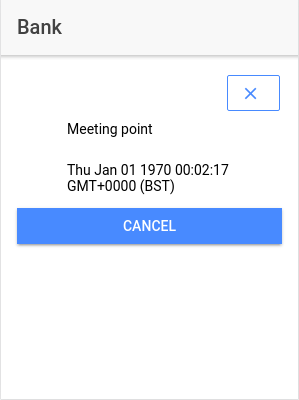
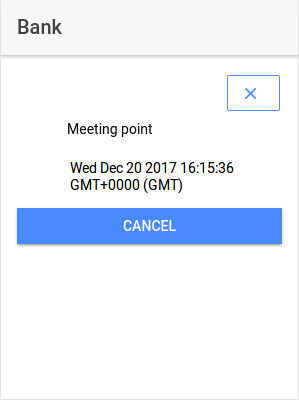
Fixed bug with timestamps
also updated post on website to correct erroneous screenshot

Changed region(s): [[0.2107, 0.39, 0.7826, 0.48]]

diff --git a/src/pages/viewpinmodal/viewpinmodal.ts b/src/pages/viewpinmodal/viewpinmodal.ts
@@ -17,7 +17,7 @@ import { Pin } from '../../Pin';
 export class ViewpinmodalPage {
   name: string;
   details: string;
-  age: Date;
+  timestamp: Date;
 
   constructor(public navCtrl: NavController, public navParams: NavParams,
     public events: Events) {
@@ -28,22 +28,21 @@ export class ViewpinmodalPage {
       this.pin = new Pin(null, null);
       this.pin.name = "error";
       this.pin.details = "error";
-      this.pin.age = new Date();
+      this.pin.timestamp = new Date();
     }
     //otherwise calculate the age
-    else if(this.pin.age !== undefined){
-      this.pin.age = new Date(new Date().valueOf() - this.pin.age.valueOf());
+    else if(this.pin.timestamp !== undefined){
+      this.pin.timestamp = new Date(new Date().valueOf() - this.pin.timestamp.valueOf());
     }*/
 
     this.name = navParams.get('name');
     this.details = navParams.get('details');
-    this.age = navParams.get('age');
+    this.timestamp = navParams.get('age');
 
     //if no pin parameter received flag error in text
     if(this.name === undefined) this.name = "error";
     if(this.details === undefined) this.details = "error";
-    if(this.age === undefined) this.age = new Date();
-    else this.age = new Date(new Date().valueOf() - this.age.valueOf());
+    if(this.timestamp === undefined) this.timestamp = new Date();
   }
 
   ionViewDidLoad() {

diff --git a/docs/blog.html b/docs/blog.html
@@ -74,7 +74,7 @@
             <article>
               <h2><a href="singlepost.html">Hello World!</a></h2>
               <div class="date">
-                Calum Mackervoy -- December 17, 2017 00:05
+                Calum Mackervoy -- December 20, 2017 17:00
               </div>
               <hr/>
               <img src="../resources/posts/16122017/2.png" alt="screenshot of the main interface of the app" class="img-fluid screenshot">
@@ -107,7 +107,7 @@
                 <h4>All Posts</h4>
               </div>
               <ul class="list-group">
-                <li class="list-group-item"><a href="singlepost.html">1. Hello World! 17.12.2017</a></li>
+                <li class="list-group-item"><a href="singlepost.html">1. Hello World! 20.12.2017</a></li>
               </ul>
             </div>
           </div>

diff --git a/src/pages/addpinmodal/addpinmodal.html b/src/pages/addpinmodal/addpinmodal.html
@@ -19,7 +19,6 @@
       <ion-row>
         <ion-col>
           <ion-list inset>
-            <p> {{ manualPos }} </p>
             <div><!--class = "ng-hide" ng-show="manualPos">-->
               <ion-item>
                 <ion-input type="text" placeholder="Latitude" name="latitude" [(ngModel)]="pin.latitude" required></ion-input>

diff --git a/src/pages/viewpinmodal/viewpinmodal.html b/src/pages/viewpinmodal/viewpinmodal.html
@@ -24,7 +24,7 @@
       {{ details }}
     </p>
     <p>
-      {{ age }}
+      {{ timestamp }}
     </p>
   </div>
   <button ion-button full (click)="dismiss()">Cancel</button>

diff --git a/src/app/app.component.ts b/src/app/app.component.ts
@@ -26,7 +26,7 @@ export class MyApp {
     });
   }
 
-  changeDisplayName() {
+  DisplayName() {
     console.log("change display name clicked");
   }
 
